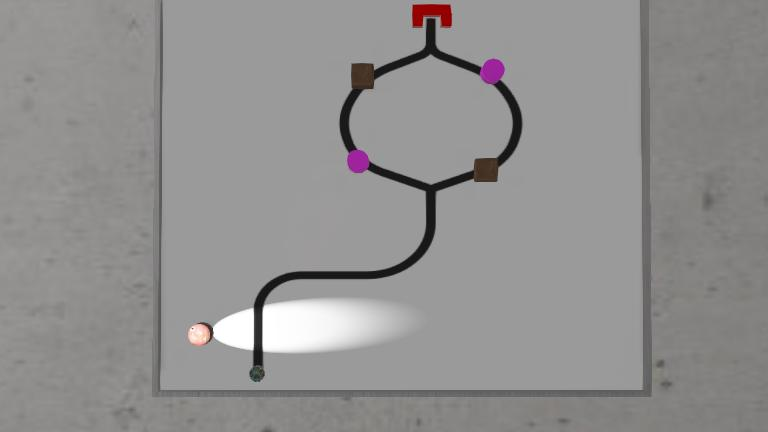
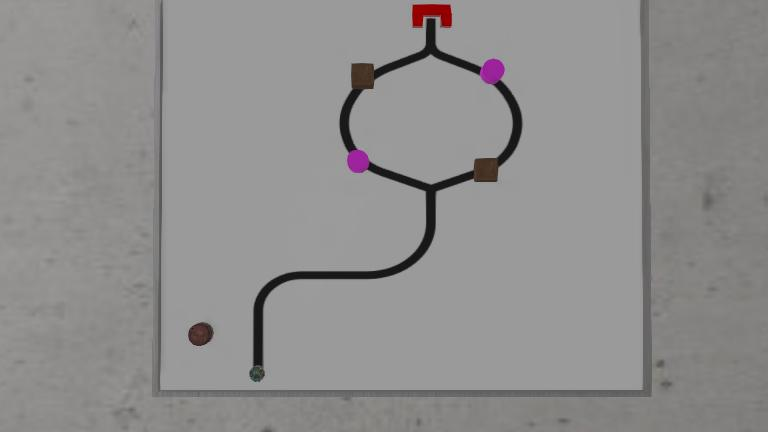
bbr: understand where to turn based on the light being on or off (05/11/23)

Changed region(s): [[0.2188, 0.6921, 0.5312, 0.8426]]

diff --git a/controllers/bbr_controller/bbr_controller.py b/controllers/bbr_controller/bbr_controller.py
@@ -28,7 +28,14 @@ class Controller:
             sensor_name = 'ps' + str(i)
             self.proximity_sensors.append(self.robot.getDevice(sensor_name))
             self.proximity_sensors[i].enable(self.time_step)
-       
+
+        # enable light sensors
+        self.light_sensors = []
+        for i in range(8):
+            sensor_name = 'ls' + str(i)
+            self.light_sensors.append(self.robot.getDevice(sensor_name))
+            self.light_sensors[i].enable(self.time_step)
+
         # Enable Ground Sensors
         self.left_ir = self.robot.getDevice('gs0')
         self.left_ir.enable(self.time_step)
@@ -44,6 +51,10 @@ class Controller:
         # Flag for if the light was on or off
         # initially False
         self.flag_light = False
+        # flag for what direction to turn
+        self.flag_dir = 0
+        # flag for avoiding obstacles
+        self.flag_turn = 0
     # end contructor
     
     # taken from lab <n>
@@ -55,10 +66,54 @@ class Controller:
         return value
     # end clip_value
     def sense_compute_actuate(self):
-        pass
+        if(len(self.inputs) > 0 and len(self.inputsPrevious) > 0):
+            # read light sensors
+            # for i in range(8):
+            #     # display light sensor values
+            #     print("Light Sensor {}: {}".format(i, self.inputs[11+i]))
+            # end for
+            print("-----------------")
+
+            # check if every light sensor is 1.0
+            if(all(x == 1.0 for x in self.inputs[11:18])):
+                self.flag_light = False # light is off
+            else:
+                self.flag_light = True # light is on
+                self.flag_dir = 1 # turn according to to light
+            # end if
+
+            # Check for any possible collision
+            if(np.max(self.inputs[3:11]) > 0.4):
+                # Time
+                time = datetime.now()
+                print("({} - {}) Object or walls detected!".format(time.second, time.microsecond))
+            # Turn
+            if(self.flag_turn):
+                self.velocity_left = -0.3
+                self.velocity_right = 0.3
+                if(np.min(self.inputs[0:3])< 0.35):
+                    self.flag_turn = 0
+            else:        
+                # Check end of line
+                if((np.min(self.inputs[0:3])-np.min(self.inputsPrevious[0:3])) > 0.2):
+                    self.flag_turn = 1
+                else:    
+                    # Follow the line    
+                    if(self.inputs[0] < self.inputs[1] and self.inputs[0] < self.inputs[2]):
+                        self.velocity_left = 0.5
+                        self.velocity_right = 1
+                    elif(self.inputs[1] < self.inputs[0] and self.inputs[1] < self.inputs[2]):
+                        self.velocity_left = 1
+                        self.velocity_right = 1    
+                    elif(self.inputs[2] < self.inputs[0] and self.inputs[2] < self.inputs[1]):
+                        self.velocity_left = 1
+                        self.velocity_right = 0.5
+     
+        self.left_motor.setVelocity(self.velocity_left)
+        self.right_motor.setVelocity(self.velocity_right)
     # end sense_compute_actuate
     
-    # taken from lab <n>
+    # mostly taken from lab <n>
     def run_robot(self):
         # main loop
         count = 0
@@ -95,6 +150,17 @@ class Controller:
                 if(tmp < min_ps): tmp = min_ps
                 # save data
                 self.inputs.append((tmp-min_ps)/(max_ps-min_ps))
+            # end for
+            # read light sensor (this code is inspired by the code above, the code above is from lab <n>)
+            for i in range(8):
+                tmp = self.light_sensors[i].getValue()
+                # change the values
+                min_ls = 0
+                max_ls = 1.0 # max from light sensors
+                if(tmp > max_ls): tmp = max_ls
+                if(tmp < min_ls): tmp = min_ls
+                # save data
+                self.inputs.append((tmp-min_ls)/(max_ls-min_ls))
             # end for
             # smooth filter (average)
             smooth = 30
